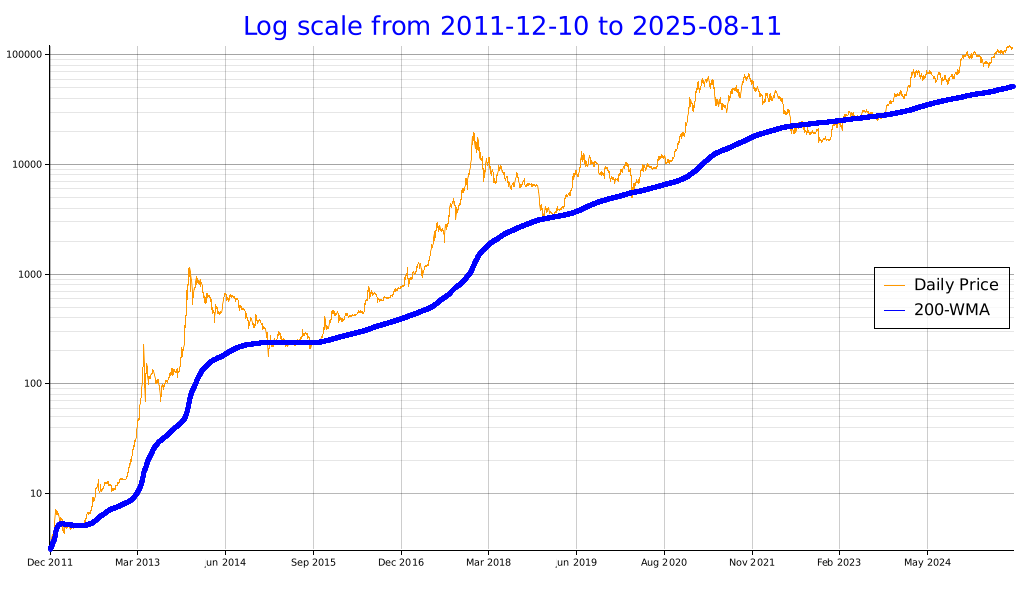
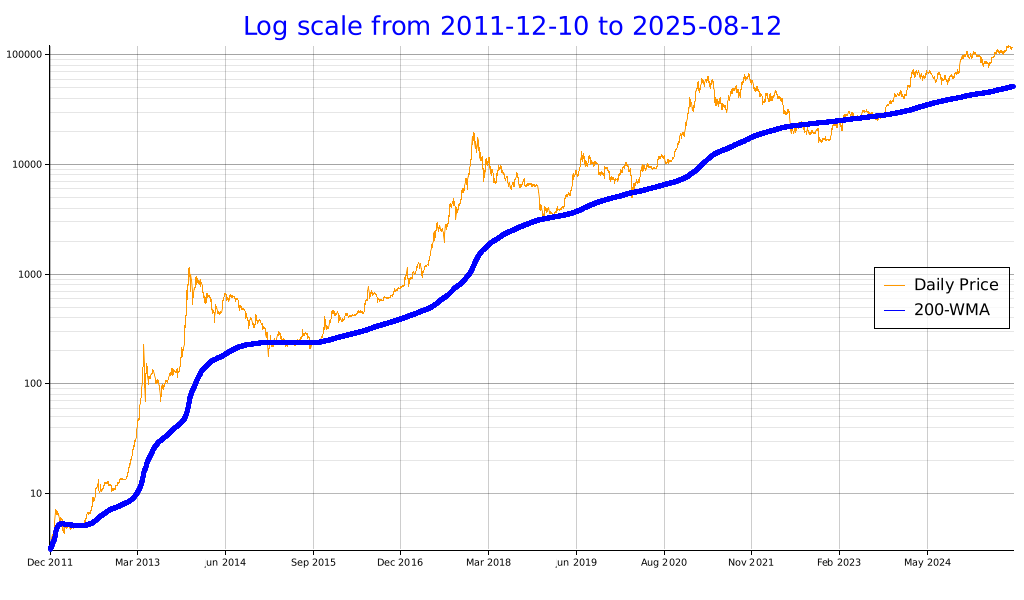
deploy: 9e9e5e69465e6e2aed0a6f6c9422689534c87eb3

Changed region(s): [[0.75, 0.03, 0.7812, 0.06], [0.7188, 0.93, 0.75, 0.96], [0.375, 0.93, 0.4062, 0.96]]

diff --git a/index.html b/index.html
@@ -34,7 +34,7 @@
           <td>123,091.60</td>
           <td>74,436.67</td>
           <td></td>
-          <td>10,636,326,076,416.0</td>
+          <td>10,635,020,599,296.0</td>
         </tr>
         <tr>
           <td class='yearly-summary-year'>2024</td>
@@ -227,7 +227,7 @@
     <br><br>
     <a href='https://github.com/bitcoin-tools/btracker'>Link to the report codebase</a>
     <br><br>
-    This report was last updated at 2025-08-11 23:53:18.390774767 UTC.
+    This report was last updated at 2025-08-12 01:49:26.486582574 UTC.
     <br><br>
     <div class='scrollable-table'>
       <table>
@@ -247,16 +247,16 @@
         </thead>
         <tbody>
           <tr>
-            <td>2025-08-11</td>
-            <td>119,295.21</td>
-            <td>122,321.09</td>
-            <td>118,318.57</td>
-            <td>118,815.49</td>
-            <td class='wma-column'>51,220.57</td>
-            <td>45.75 (0.08 %)</td>
-            <td>64,043.91 (116.9 %)</td>
-            <td>4,002.51 (3.3 %)</td>
-            <td>2,315.13 (1.9 %)</td>
+            <td>2025-08-12</td>
+            <td>118,707.93</td>
+            <td>119,112.07</td>
+            <td>118,653.79</td>
+            <td>119,072.14</td>
+            <td class='wma-column'>51,220.75</td>
+            <td>45.92 (0.08 %)</td>
+            <td>64,300.57 (117.3 %)</td>
+            <td>458.28 (0.3 %)</td>
+            <td>2,571.78 (2.2 %)</td>
           </tr>
           <tr>
             <td>2025-08-09</td>
